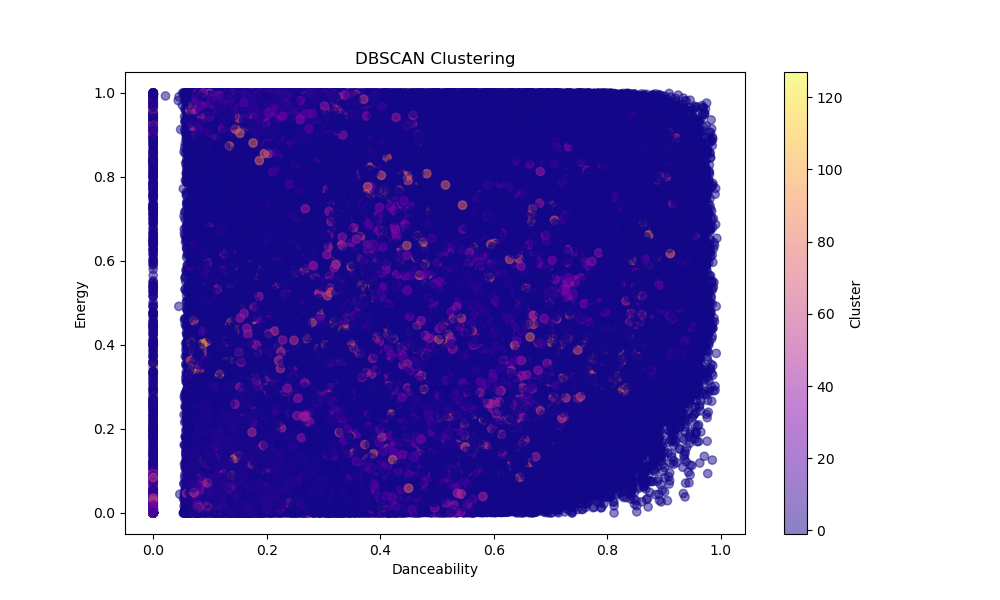
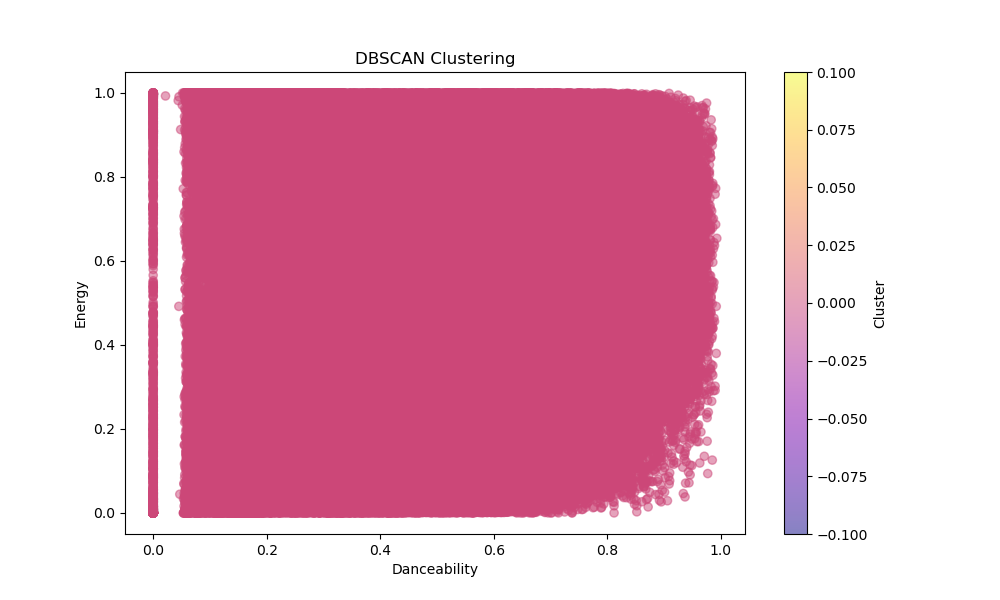
Comparison

diff --git a/app/main.py b/app/main.py
@@ -16,6 +16,7 @@ from spotipy.oauth2 import SpotifyClientCredentials
 import os
 from dotenv import load_dotenv
 from sklearn.metrics.pairwise import cosine_similarity
+from sklearn.metrics import pairwise_distances
 import mysql.connector
 from sklearn.metrics import silhouette_score, davies_bouldin_score, adjusted_rand_score
 
@@ -319,7 +320,15 @@ def comparison():
         # Get the database engine
         engine = db.engine
 
-        # Single query to retrieve cluster groups and their counts for KMeans, DBSCAN, and Agglomerative
+        # Unified query to fetch relevant data
+        feature_query = """
+            SELECT danceability, energy, kmeans, dbscan, agglomerative 
+            FROM Spotify 
+            WHERE kmeans IS NOT NULL OR dbscan IS NOT NULL OR agglomerative IS NOT NULL
+        """
+        df_features = pd.read_sql(feature_query, engine).dropna()
+
+        # Prepare clustering results
         cluster_query = """
             SELECT
                 kmeans AS cluster_group,
@@ -348,35 +357,17 @@ def comparison():
             FROM Spotify
             WHERE agglomerative IS NOT NULL
             GROUP BY agglomerative
-
             ORDER BY algorithm, cluster_group;
         """
-
-        # Execute the query and convert the results to a DataFrame
         combined_results = pd.read_sql(cluster_query, engine)
 
-        # Separate DataFrames for each algorithm's counts
-        kmeans_counts_html = combined_results[combined_results['algorithm'] == 'KMeans'][['cluster_group', 'count']].dropna().to_html(classes='table table-striped', index=False)
-        dbscan_counts_html = combined_results[combined_results['algorithm'] == 'DBSCAN'][['cluster_group', 'count']].dropna().to_html(classes='table table-striped', index=False)
-        agglomerative_counts_html = combined_results[combined_results['algorithm'] == 'Agglomerative'][['cluster_group', 'count']].dropna().to_html(classes='table table-striped', index=False)
-
-        # Prepare DataFrames for plotting
-        df_kmeans = pd.read_sql("SELECT danceability, energy, kmeans FROM Spotify WHERE kmeans IS NOT NULL", engine)
-        df_dbscan = pd.read_sql("SELECT danceability, energy, dbscan FROM Spotify WHERE dbscan IS NOT NULL", engine)
-        df_agglomerative = pd.read_sql("SELECT danceability, energy, agglomerative FROM Spotify WHERE agglomerative IS NOT NULL", engine)
-
         # Generate graphs
-        generate_kmeans_graph(df_kmeans)
-        generate_dbscan_graph(df_dbscan)
-        generate_agglomerative_graph(df_agglomerative)
+        generate_kmeans_graph(df_features[['danceability', 'energy', 'kmeans']])
+        generate_dbscan_graph(df_features[['danceability', 'energy', 'dbscan']])
+        generate_agglomerative_graph(df_features[['danceability', 'energy', 'agglomerative']])
 
         # Calculate evaluation metrics
-        metrics = {
-            'Silhouette Score': calculate_silhouette_score(engine),
-            'Davies-Bouldin Index': calculate_davies_bouldin_index(engine),
-            'Adjusted Rand Index (ARI)': calculate_ari(engine),
-            'Dunn Index': calculate_dunn_index(engine)
-        }
+        metrics = calculate_metrics(engine)
 
         # Set paths for graph images
         kmeans_graph = '/static/graphs/kmeans_results.png'
@@ -384,9 +375,9 @@ def comparison():
         agglomerative_graph = '/static/graphs/agglomerative_results.png'
 
         return render_template('comparison.html',
-                               kmeans_counts=kmeans_counts_html,
-                               dbscan_counts=dbscan_counts_html,
-                               agglomerative_counts=agglomerative_counts_html,
+                               kmeans_counts=combined_results[combined_results['algorithm'] == 'KMeans'][['cluster_group', 'count']].to_html(classes='table table-striped', index=False),
+                               dbscan_counts=combined_results[combined_results['algorithm'] == 'DBSCAN'][['cluster_group', 'count']].to_html(classes='table table-striped', index=False),
+                               agglomerative_counts=combined_results[combined_results['algorithm'] == 'Agglomerative'][['cluster_group', 'count']].to_html(classes='table table-striped', index=False),
                                kmeans_graph=kmeans_graph,
                                dbscan_graph=dbscan_graph,
                                agglomerative_graph=agglomerative_graph,
@@ -403,139 +394,78 @@ def pairwise_distance(X1, X2):
     """Calculate the pairwise distance between two sets of points."""
     return cdist(X1, X2, metric='euclidean')
 
-def calculate_silhouette_score(engine):
-    # Query to get features and clustering labels
+from sklearn.metrics import silhouette_score, davies_bouldin_score, pairwise_distances
+import numpy as np
+import pandas as pd
+
+def calculate_metrics(engine):
+    # Ensure that engine is the correct SQLAlchemy connection object
+    if not hasattr(engine, 'execute'):
+        raise ValueError("The provided engine is not a valid SQLAlchemy engine.")
+    
     df = pd.read_sql("SELECT danceability, energy, kmeans, dbscan, agglomerative FROM Spotify", engine)
 
     # Drop rows where all clustering labels are NaN
     df = df.dropna(subset=['kmeans', 'dbscan', 'agglomerative'], how='all')
-    
-    # Calculate Silhouette Score for KMeans
-    if not df['kmeans'].isnull().all():
-        kmeans_score = silhouette_score(df[['danceability', 'energy']], df['kmeans'])
-    else:
-        kmeans_score = None
-    
-    # Calculate Silhouette Score for DBSCAN
-    if not df['dbscan'].isnull().all():
-        dbscan_score = silhouette_score(df[['danceability', 'energy']], df['dbscan'])
-    else:
-        dbscan_score = None
-    
-    # Calculate Silhouette Score for Agglomerative
-    if not df['agglomerative'].isnull().all():
-        agglomerative_score = silhouette_score(df[['danceability', 'energy']], df['agglomerative'])
-    else:
-        agglomerative_score = None
 
-    return {
-        'KMeans Silhouette Score': kmeans_score,
-        'DBSCAN Silhouette Score': dbscan_score,
-        'Agglomerative Silhouette Score': agglomerative_score
-    }
+    metrics = {}
 
-def calculate_davies_bouldin_index(engine):
-    df = pd.read_sql("SELECT danceability, energy, kmeans, dbscan, agglomerative FROM Spotify", engine)
-    
-    # Drop rows where all clustering labels are NaN
-    df = df.dropna(subset=['kmeans', 'dbscan', 'agglomerative'], how='all')
-    
-    # Calculate Davies-Bouldin Index for KMeans
-    if not df['kmeans'].isnull().all():
-        kmeans_db_index = davies_bouldin_score(df[['danceability', 'energy']], df['kmeans'])
-    else:
-        kmeans_db_index = None
-    
-    # Calculate Davies-Bouldin Index for DBSCAN
-    if not df['dbscan'].isnull().all():
-        dbscan_db_index = davies_bouldin_score(df[['danceability', 'energy']], df['dbscan'])
-    else:
-        dbscan_db_index = None
-    
-    # Calculate Davies-Bouldin Index for Agglomerative
-    if not df['agglomerative'].isnull().all():
-        agglomerative_db_index = davies_bouldin_score(df[['danceability', 'energy']], df['agglomerative'])
-    else:
-        agglomerative_db_index = None
+    # Calculate Silhouette Scores
+    metrics['KMeans Silhouette Score'] = (
+        silhouette_score(df[['danceability', 'energy']], df['kmeans']) 
+        if not df['kmeans'].isnull().all() else None
+    )
+    metrics['DBSCAN Silhouette Score'] = (
+        silhouette_score(df[['danceability', 'energy']], df['dbscan']) 
+        if not df['dbscan'].isnull().all() else None
+    )
+    metrics['Agglomerative Silhouette Score'] = (
+        silhouette_score(df[['danceability', 'energy']], df['agglomerative']) 
+        if not df['agglomerative'].isnull().all() else None
+    )
 
-    return {
-        'KMeans Davies-Bouldin Index': kmeans_db_index,
-        'DBSCAN Davies-Bouldin Index': dbscan_db_index,
-        'Agglomerative Davies-Bouldin Index': agglomerative_db_index
-    }
+    # Calculate Davies-Bouldin Index
+    metrics['KMeans Davies-Bouldin Index'] = (
+        davies_bouldin_score(df[['danceability', 'energy']], df['kmeans']) 
+        if not df['kmeans'].isnull().all() else None
+    )
+    metrics['DBSCAN Davies-Bouldin Index'] = (
+        davies_bouldin_score(df[['danceability', 'energy']], df['dbscan']) 
+        if not df['dbscan'].isnull().all() else None
+    )
+    metrics['Agglomerative Davies-Bouldin Index'] = (
+        davies_bouldin_score(df[['danceability', 'energy']], df['agglomerative']) 
+        if not df['agglomerative'].isnull().all() else None
+    )
 
-def calculate_ari(engine):
-    # Dummy true labels (you need to replace this with your actual true labels)
-    true_labels = []  # Replace with actual true labels from your dataset
-    
-    df = pd.read_sql("SELECT kmeans, dbscan, agglomerative FROM Spotify", engine)
-    
-    # Drop rows where all clustering labels are NaN
-    df = df.dropna(subset=['kmeans', 'dbscan', 'agglomerative'], how='all')
-    
-    results = {}
-    
-    # Calculate ARI for KMeans
-    if true_labels and not df['kmeans'].isnull().all():
-        ari_kmeans = adjusted_rand_score(true_labels, df['kmeans'])
-        results['KMeans ARI'] = ari_kmeans
-
-    # Calculate ARI for DBSCAN
-    if true_labels and not df['dbscan'].isnull().all():
-        ari_dbscan = adjusted_rand_score(true_labels, df['dbscan'])
-        results['DBSCAN ARI'] = ari_dbscan
-    
-    # Calculate ARI for Agglomerative
-    if true_labels and not df['agglomerative'].isnull().all():
-        ari_agglomerative = adjusted_rand_score(true_labels, df['agglomerative'])
-        results['Agglomerative ARI'] = ari_agglomerative
-
-    return results
-
-def calculate_dunn_index(engine):
-    df = pd.read_sql("SELECT danceability, energy, kmeans, dbscan, agglomerative FROM Spotify", engine)
-    
-    # Drop rows where all clustering labels are NaN
-    df = df.dropna(subset=['kmeans', 'dbscan', 'agglomerative'], how='all')
-
-    results = {}
-
+    # Calculate Dunn Index
     def dunn_index(clusters):
-        # Calculate the Dunn Index for the given clusters
         if len(np.unique(clusters)) <= 1:
             return None
 
-        # Calculate inter-cluster distances
         inter_cluster_distances = []
         intra_cluster_distances = []
 
-        # Calculate the minimum distance between clusters
         for i in np.unique(clusters):
             for j in np.unique(clusters):
                 if i != j:
-                    inter_cluster_distances.append(np.min(pairwise_distance(df[df['kmeans'] == i][['danceability', 'energy']], 
-                                                                            df[df['kmeans'] == j][['danceability', 'energy']])))
+                    inter_cluster_distances.append(np.min(pairwise_distances(df[df[clusters.name] == i][['danceability', 'energy']],
+                                                                             df[df[clusters.name] == j][['danceability', 'energy']])))
 
-        # Calculate the maximum distance within each cluster
         for cluster in np.unique(clusters):
-            intra_cluster_distances.append(np.max(pairwise_distance(df[df['kmeans'] == cluster][['danceability', 'energy']], 
-                                                                    df[df['kmeans'] == cluster][['danceability', 'energy']])))
+            intra_cluster_distances.append(np.max(pairwise_distances(df[df[clusters.name] == cluster][['danceability', 'energy']],
+                                                                    df[df[clusters.name] == cluster][['danceability', 'energy']])))
 
         return np.min(inter_cluster_distances) / np.max(intra_cluster_distances)
 
-    # Calculate Dunn Index for KMeans
-    if not df['kmeans'].isnull().all():
-        dunn_kmeans = dunn_index(df['kmeans'])
-        results['KMeans Dunn Index'] = dunn_kmeans
+    metrics['KMeans Dunn Index'] = (
+        dunn_index(df['kmeans']) if not df['kmeans'].isnull().all() else None
+    )
+    metrics['DBSCAN Dunn Index'] = (
+        dunn_index(df['dbscan']) if not df['dbscan'].isnull().all() else None
+    )
+    metrics['Agglomerative Dunn Index'] = (
+        dunn_index(df['agglomerative']) if not df['agglomerative'].isnull().all() else None
+    )
 
-    # Calculate Dunn Index for DBSCAN
-    if not df['dbscan'].isnull().all():
-        dunn_dbscan = dunn_index(df['dbscan'])
-        results['DBSCAN Dunn Index'] = dunn_dbscan
-
-    # Calculate Dunn Index for Agglomerative
-    if not df['agglomerative'].isnull().all():
-        dunn_agglomerative = dunn_index(df['agglomerative'])
-        results['Agglomerative Dunn Index'] = dunn_agglomerative
-
-    return results
+    return metrics
